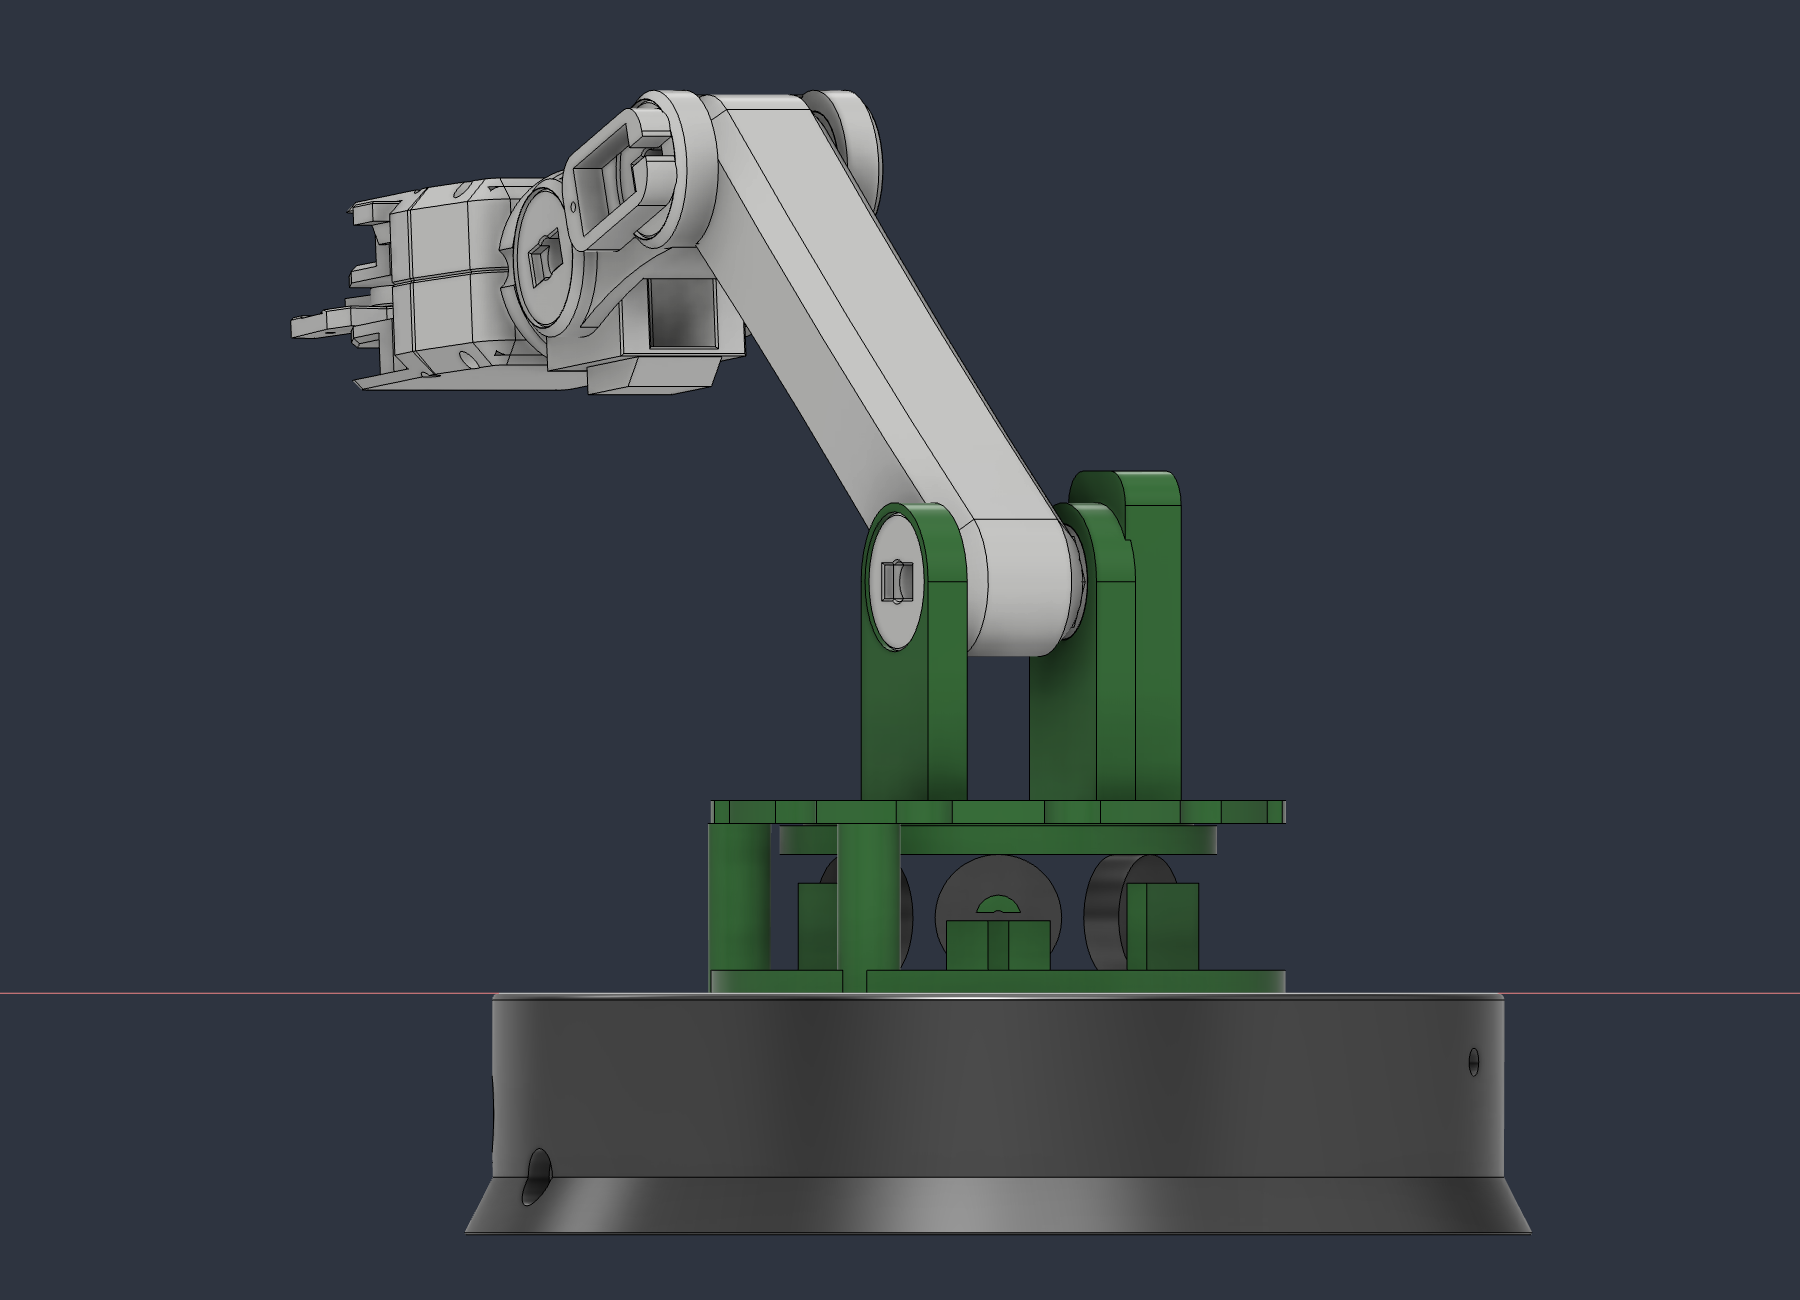
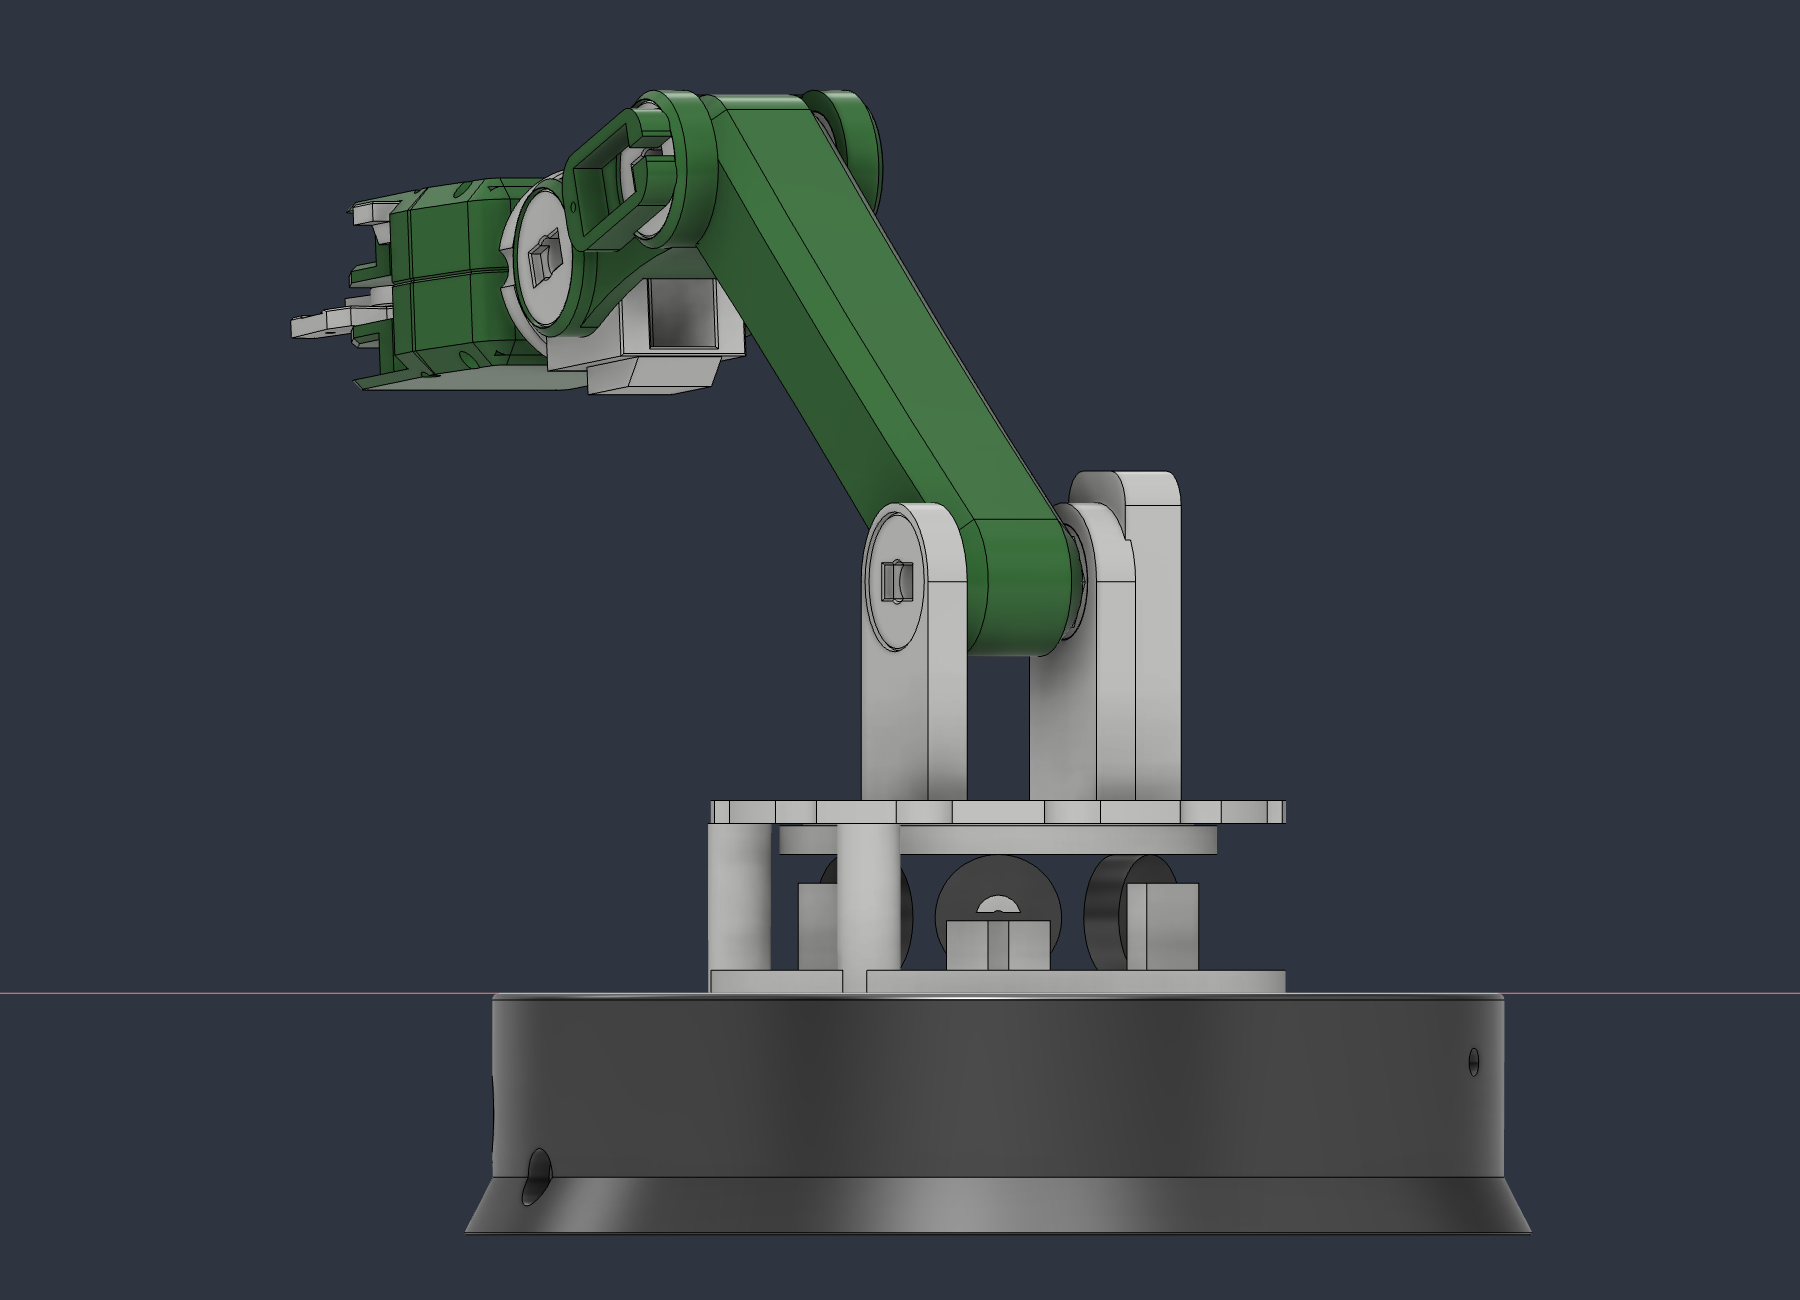
robotarm: green where it was yellow, white where it was black
Straight substitution onto the split the design already had, rather than the
base-vs-moving scheme I invented last commit:

  yellow -> GREEN   forearm, upper_arm, pruner_shell, gripper_shell,
                    gripper_rack_jaw - the links and the shells
  black  -> WHITE   turret, hubs, wrist parts, blades, racks, pinion,
                    fingers, servo_adapter

base_lid is the one part with no answer: it never had an appearance at all,
so it was neither. It goes white with the rest of the untinted parts.

One line in lib/palette.py, which is the point of having put it there.
Full four-batch rebuild, ledger PASS, all fifteen volumes at 0.000.

Changed region(s): [[0.1867, 0.0615, 0.7156, 0.7692]]

diff --git a/lib/palette.py b/lib/palette.py
@@ -8,13 +8,19 @@ horn widths, the gauge constants, and the lead datum itself). The colour is
 cosmetic, so the cost of getting it wrong is only an ugly render - but the
 SHAPE of the mistake is the expensive one, so it is fixed the same way.
 
-THE SCHEME, 2026-08-29: forest green and white.
+THE SCHEME, 2026-08-29: forest green and white, mapped straight off the
+colours the parts already had.
 
-Green goes on the base and the turret because Jonathan's platter is ALREADY
-printed in green - so the fixed half of the machine matches what exists, and
-everything that moves is white. That also happens to read well: the eye
-follows the moving parts, which is what you want when you are watching a
-mechanism you are debugging.
+    yellow -> GREEN      the links and the shells: the arm and the hand
+    black  -> WHITE      the joints, hubs, gears, blades and the turret
+
+That is the split the design already used, so it keeps whatever reasoning
+went into it. It is NOT the base-vs-moving split I picked first - that was
+me inventing a scheme when one existed.
+
+base_lid is the odd one: it had no appearance at all and rendered default
+grey. It was never yellow, so it goes white with the rest of the untinted
+parts.
 
 Fusion's stock libraries have no "forest green", so HINTS resolves to the
 nearest stock plastic and RGB carries the exact colour for anything that
@@ -22,8 +28,9 @@ wants to tint it properly later. Nothing prints in these colours - filament
 is filament - so this drives renders and the assembly diagrams only.
 """
 
-# what the eye should read as FIXED (the base and turret)
-GREEN = ('turntable_stator', 'turntable_ring', 'base_lid', 'shoulder_bracket')
+# the parts that were YELLOW: the links and the shells
+GREEN = ('forearm', 'upper_arm', 'gripper_shell', 'gripper_rack_jaw',
+         'pruner_shell')
 
 # forest green #228B22, white #F5F5F5 - the exact values, for a tinted
 # appearance. HINTS is the fallback that finds a stock Fusion appearance by
@@ -38,7 +45,7 @@ HINTS = {
 
 
 def colour_of(part_name):
-    """'green' for the fixed half, 'white' for everything that moves."""
+    """green for what was yellow, white for everything else."""
     return 'green' if part_name in GREEN else 'white'
 
 
